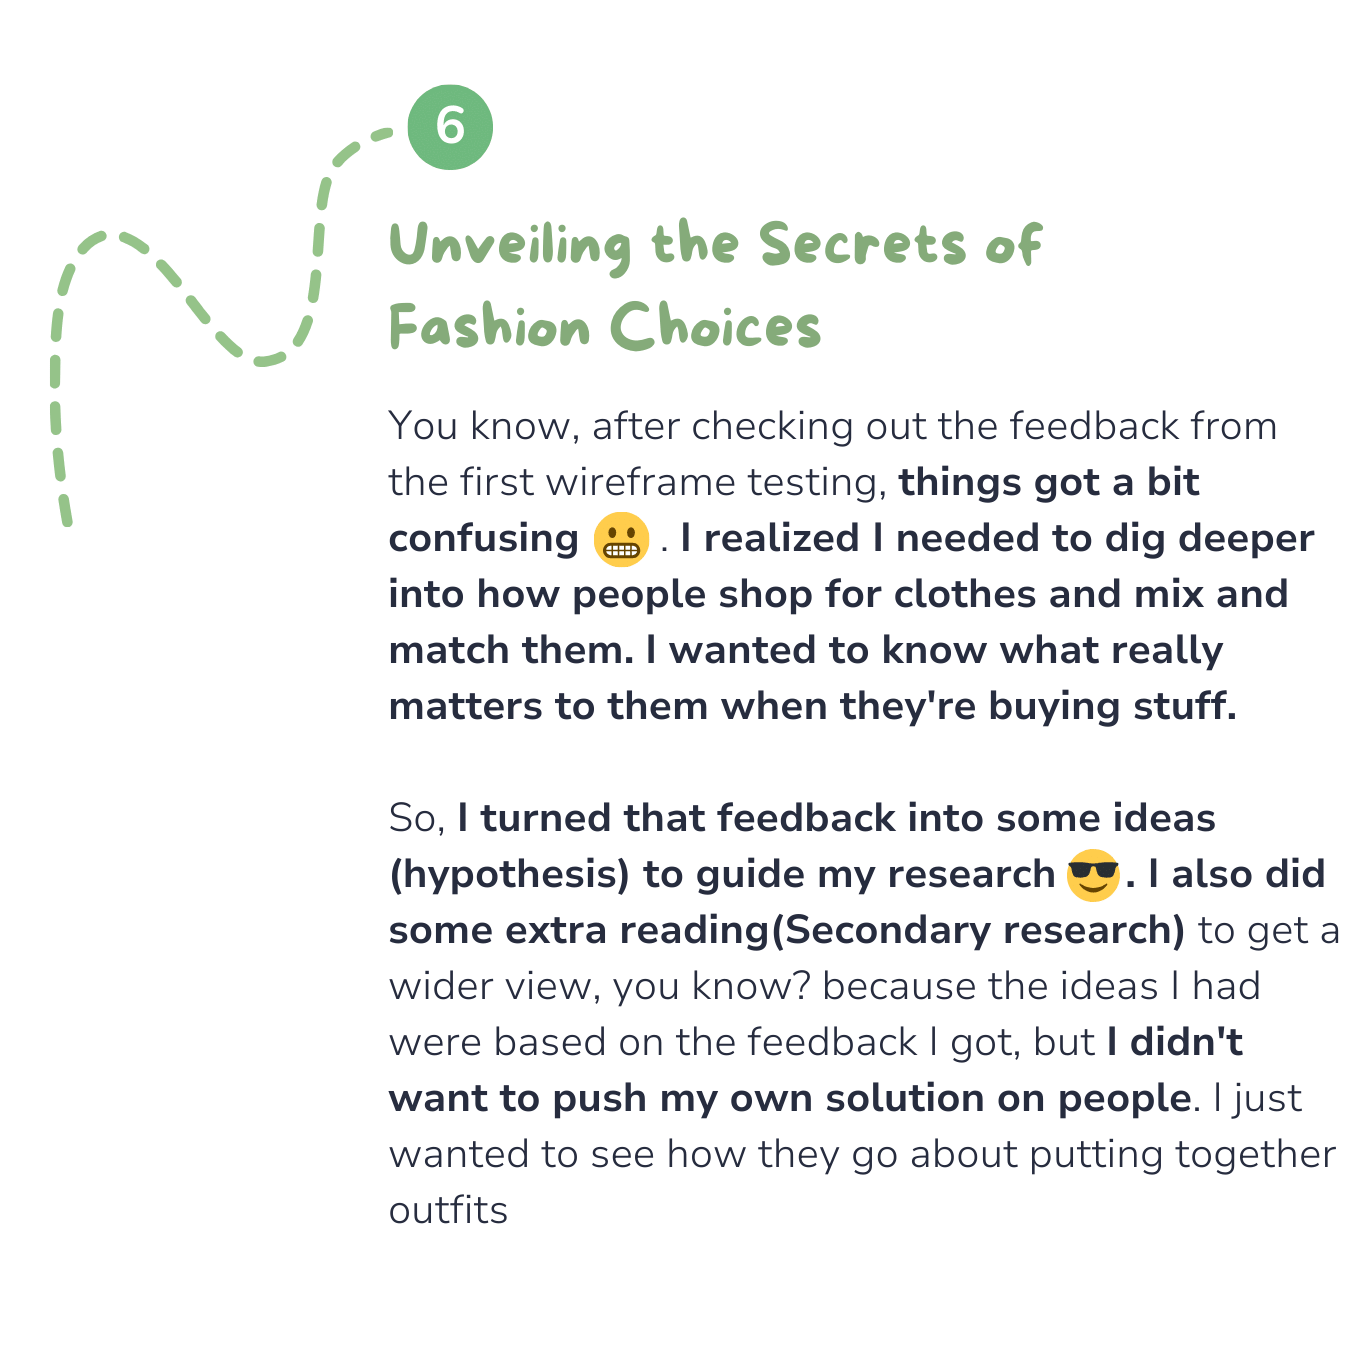
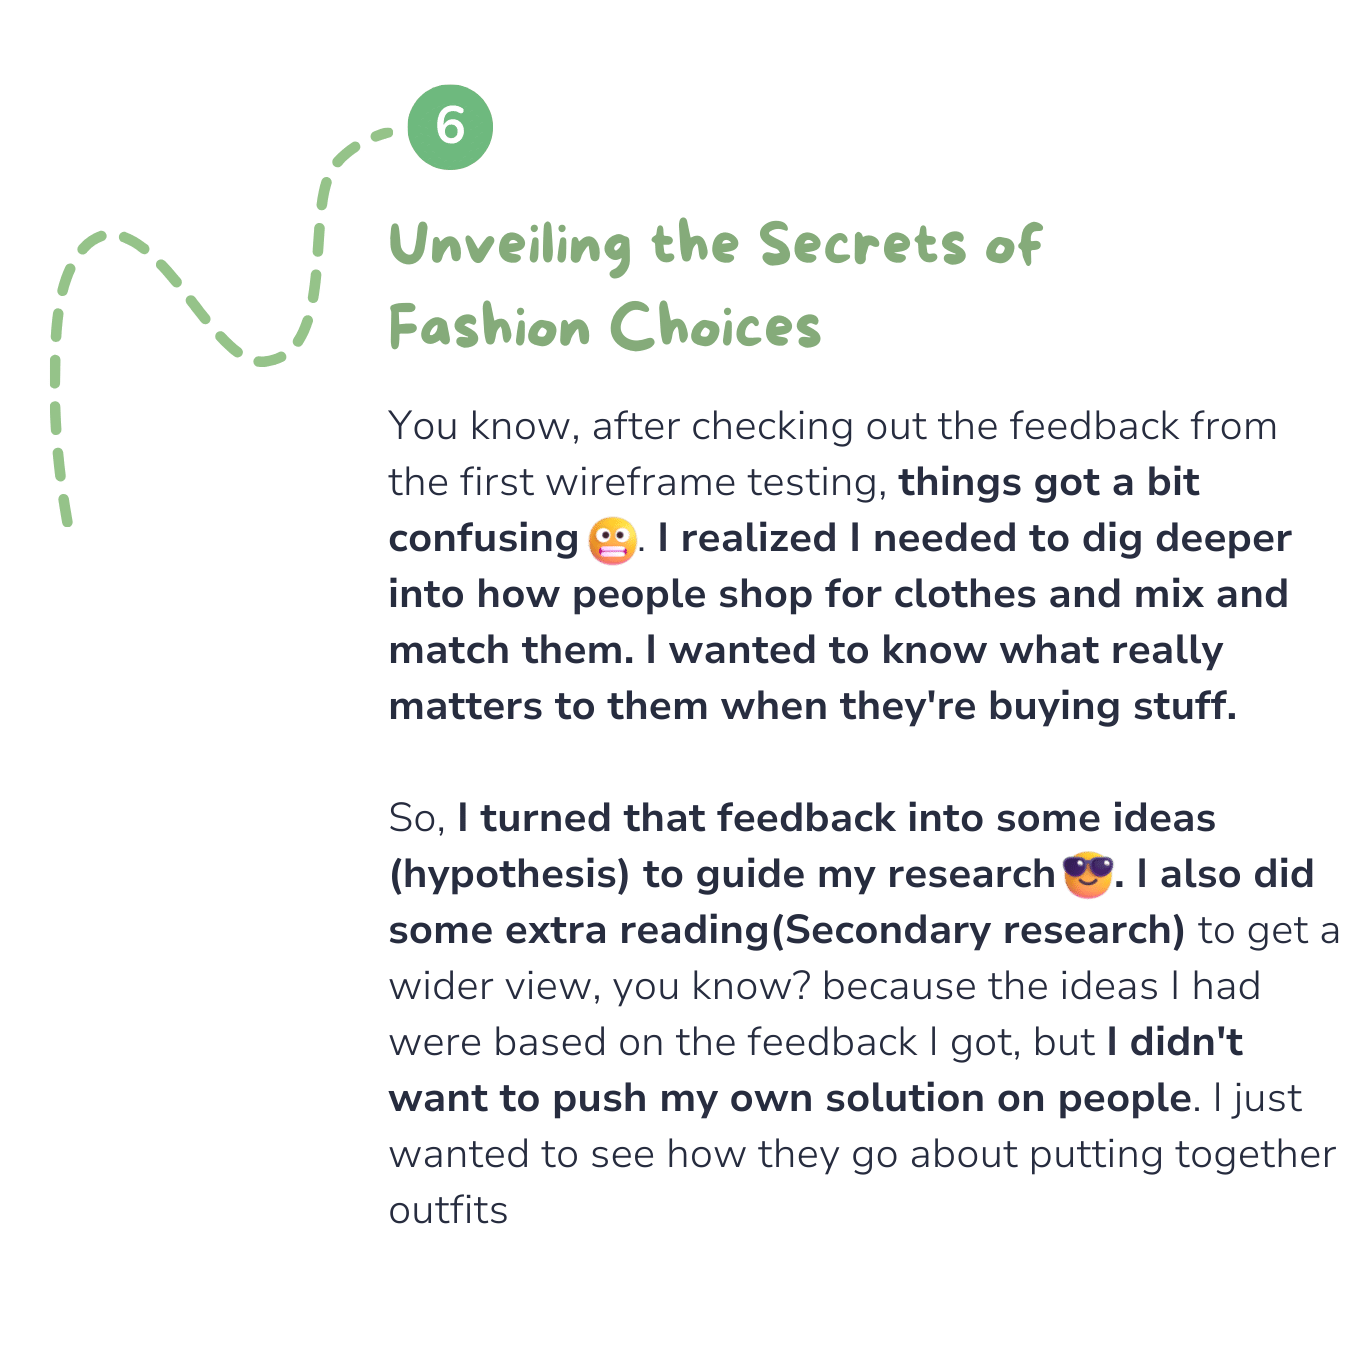
Updated approach emojis

Changed region(s): [[0.4305, 0.3744, 0.9531, 0.4368], [0.7687, 0.6241, 0.9839, 0.6865]]

diff --git a/src/app/app.component.ts b/src/app/app.component.ts
@@ -30,7 +30,7 @@ export class AppComponent {
 
   onResume() {
     window.open(
-      "https://drive.google.com/file/d/1BoX1oW8JHQ9KAqDto2axK6YvvV5fJS9X/view?usp=share_link"
+      "https://drive.google.com/file/d/19Vl0iGxWr-CHTKIZ1LaxjH36Xa9SPu2h/view?usp=sharing"
     );
   }
 
